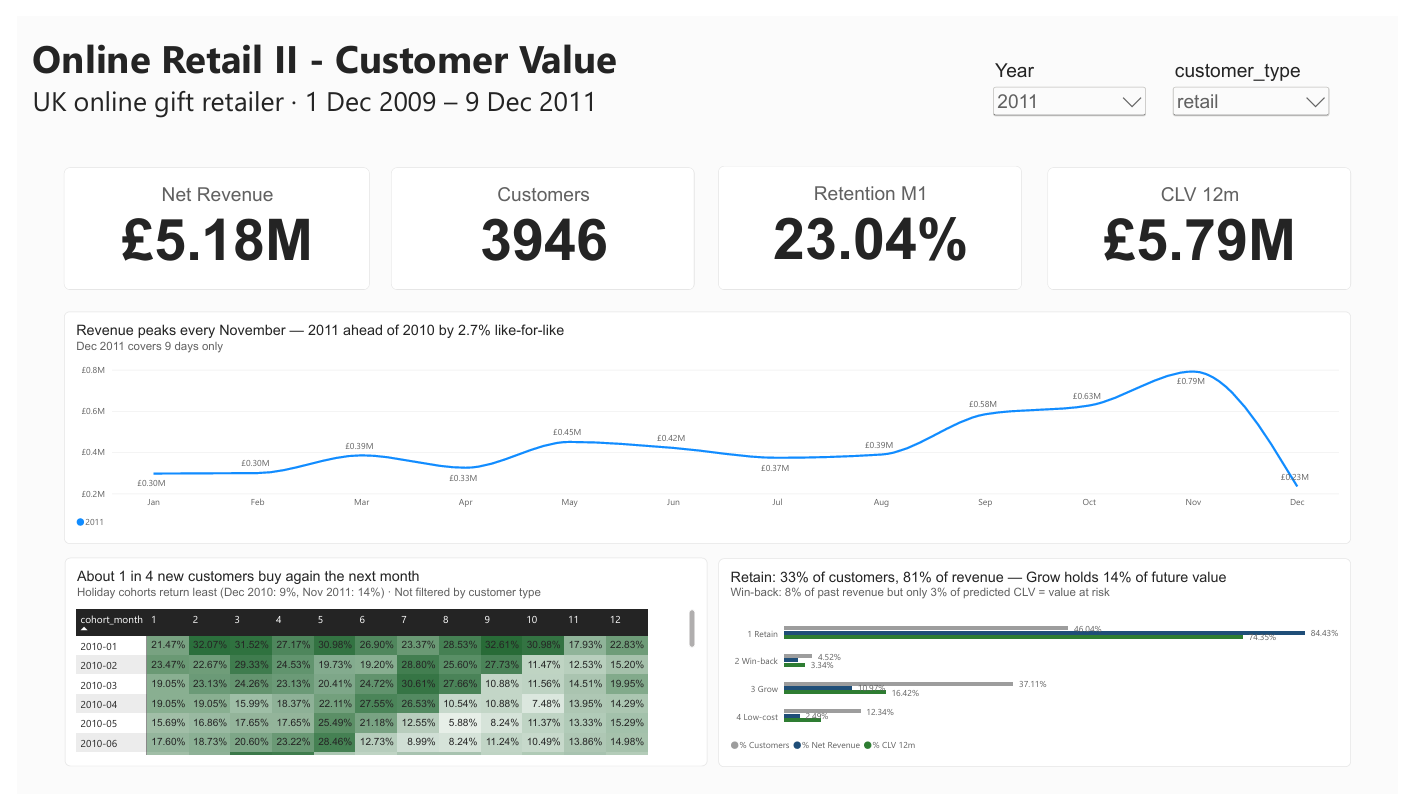
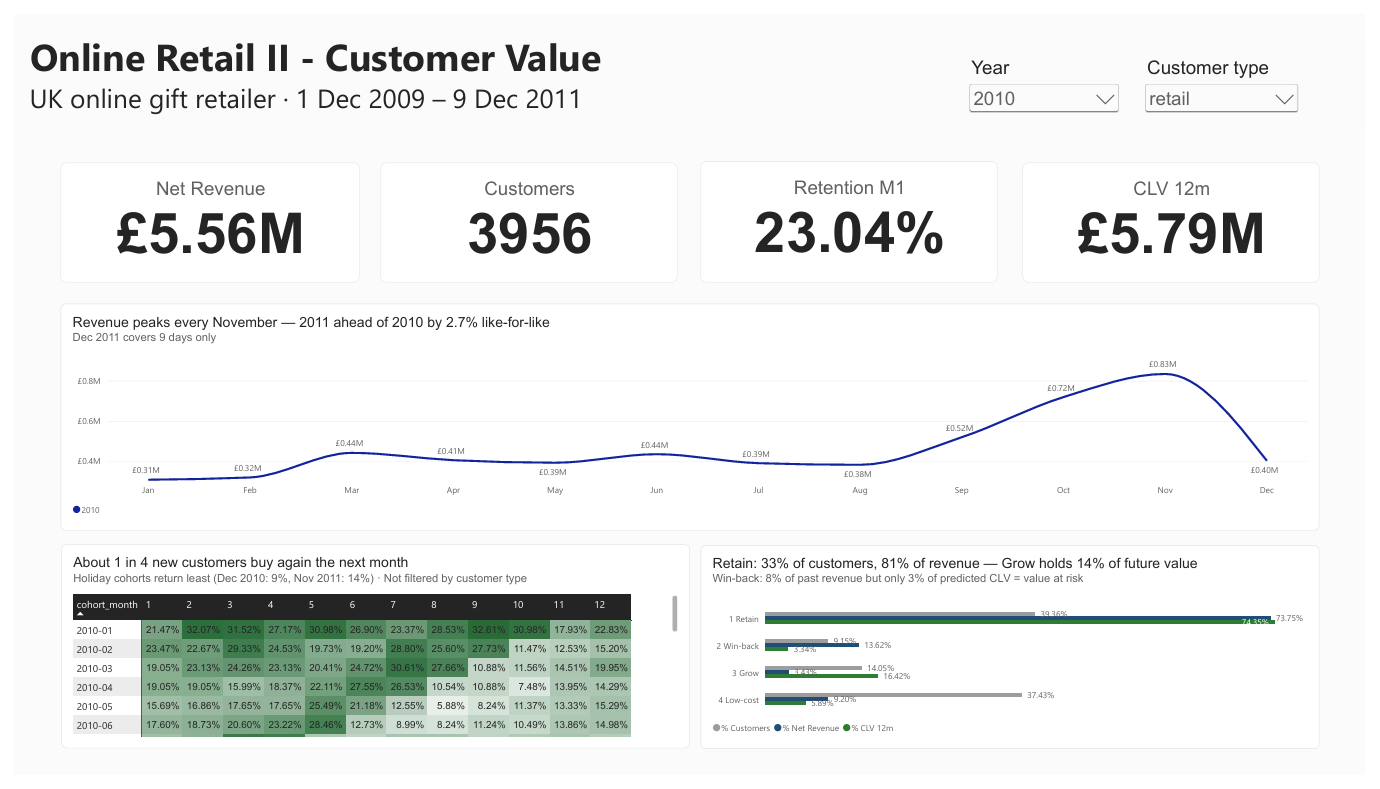
Remove data quality report and executive summary from repo

diff --git a/README.md b/README.md
@@ -33,7 +33,7 @@ Merchandising: add **"Shop the collection"** navigation (theme → colour → pr
 
 ## Data Issues Found
 
-The raw file is not analysis-ready. Each issue was profiled in SQL and logged with a decision ([`reports/data_quality_report.md`](reports/data_quality_report.md)).
+The raw file is not analysis-ready. Each issue was profiled in SQL (`sql/01_quality_checks/`) and logged with a decision.
 
 | Issue | Size | Decision |
 |---|---|---|
@@ -104,7 +104,7 @@ uv sync
 ├── sql/             00_ingest · 01_quality_checks · 02_staging · 03_analysis · 04_marts
 ├── notebooks/       03_clv · 04_basket
 ├── dashboard/       Power BI file + spec
-└── reports/         data quality log · executive summary · basket rules · dashboard image
+└── reports/         basket rules · dashboard image
 ```
 
 ## Citation
